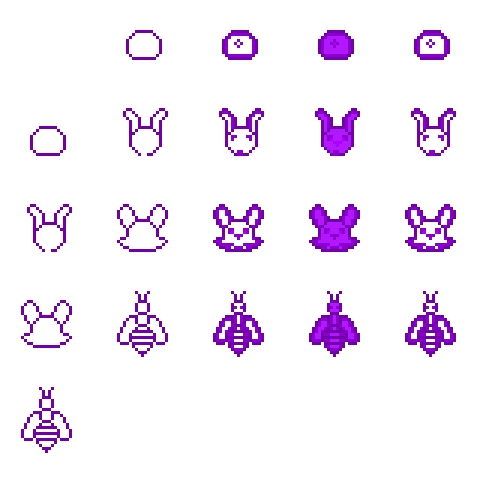
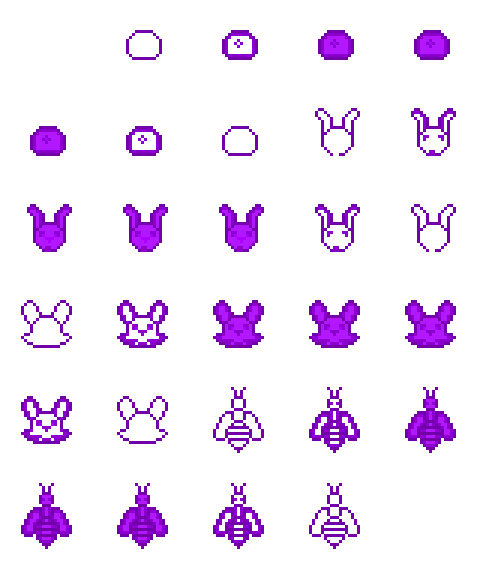
implemented curses
curses appear over the phantoms hand on the title screen.  still fixing a bug where curse will appear in menues it should not.

diff --git a/scripts/sceneScripts/titleScreen.js b/scripts/sceneScripts/titleScreen.js
@@ -27,6 +27,11 @@ class titleScreen extends Phaser.Scene {
         this.playerPreferance = 0;
         this.tempNewGameSlotID = 0;
         this.selectedSlotToBeDeleted = 0;
+        this.curse;
+        this.cursecooldown = false;
+
+        this.logoToggle =false;
+        this.logoAnimationPlayed = false;
 
         //saved variables
         this.warpToX;
@@ -50,7 +55,7 @@ class titleScreen extends Phaser.Scene {
             this.load.spritesheet("loadGame" , "assets/LoadGame.png" , {frameWidth: 231 , frameHeight: 33 });
             this.load.spritesheet("options" , "assets/options.png" , {frameWidth: 165 , frameHeight: 33 });
             this.load.spritesheet("back" , "assets/Back.png" , {frameWidth: 102 , frameHeight: 33 });
-            this.load.spritesheet("title" , "assets/Phantom's Curse.png" , {frameWidth: 1050 , frameHeight: 100 });
+            this.load.spritesheet("title" , "assets/Phantom's Curse.png" , {frameWidth: 1773 , frameHeight: 168 });
             this.load.spritesheet("titleLogo" , "assets/title screen logo.png" , {frameWidth: 1080 , frameHeight: 1140});
             this.load.spritesheet("maleSexSelectIcons" , "assets/maleSexSelectIcons.png" , {frameWidth: 75 , frameHeight: 75 });
             this.load.spritesheet("femaleSexSelectIcons" , "assets/femaleSexSelectIcons.png" , {frameWidth: 75 , frameHeight: 75 });
@@ -64,7 +69,6 @@ class titleScreen extends Phaser.Scene {
             this.load.spritesheet('sexSlotSexIcon', 'assets/saveSlotSexIcon.png',{frameWidth: 75, frameHeight: 75 });
             this.load.spritesheet('shellIcon', 'assets/shellIcon.png',{frameWidth: 96, frameHeight: 96 });
             this.load.spritesheet('bestiaryIcon', 'assets/bestiaryIcon.png',{frameWidth: 96, frameHeight: 96 });
-            this.load.spritesheet('removeSlots', 'assets/removeSlots.png',{frameWidth: 99, frameHeight: 99 });
             this.load.spritesheet('removeSlots', 'assets/removeSlots.png',{frameWidth: 99, frameHeight: 99 });
             this.load.spritesheet('no', 'assets/no.png',{frameWidth: 60, frameHeight: 33 });
             this.load.spritesheet('yes', 'assets/yes.png',{frameWidth: 78, frameHeight: 33 });
@@ -93,18 +97,18 @@ class titleScreen extends Phaser.Scene {
             this.anims.create({key: 'femaleActive',frames: this.anims.generateFrameNames('femaleSexSelectIcons', { start: 1, end: 1 }),frameRate: 1,repeat: -1});
             this.anims.create({key: 'femaleInActive',frames: this.anims.generateFrameNames('femaleSexSelectIcons', { start: 0, end: 0 }),frameRate: 1,repeat: -1});
             this.anims.create({key: 'backroundLoop',frames: this.anims.generateFrameNames('backgroundForest', { start: 0, end: 8 }),frameRate: 4,repeat: -1});
-            this.anims.create({key: 'titleLogoLoop',frames: this.anims.generateFrameNames('titleLogo', { start: 0, end: 14 }),frameRate: 4,repeat: -1});
-            this.anims.create({key: 'titleLoop',frames: this.anims.generateFrameNames('title', { start: 0, end: 9 }),frameRate: 15,repeat: -1});
-            this.anims.create({key: 'titleLoop1',frames: this.anims.generateFrameNames('title', { start: 4, end: 4 }),frameRate: 1,repeat: -1});
+            this.anims.create({key: 'titleLogoLoop1',frames: this.anims.generateFrameNames('titleLogo', { start: 0, end: 10 }),frameRate: 4,repeat: 0});
+            this.anims.create({key: 'titleLogoLoop2',frames: this.anims.generateFrameNames('titleLogo', { start: 11, end: 14 }),frameRate: 4,repeat: 0});
+            this.anims.create({key: 'titleLoop',frames: this.anims.generateFrameNames('title', { start: 0, end: 6 }),frameRate: 3,repeat: -1});
             this.backround = this.add.sprite(450, 450, "backgroundForest");
             this.backround.setScale(1.6);
             this.backround.setTint(0x4b4b4b);
-            this.titleLogo = this.add.sprite(450, 500, "titleLogo");
-            this.titleLogo.anims.play("titleLogoLoop");
+            this.titleLogo = this.add.sprite(450, 550, "titleLogo");
+           
             this.titleLogo.setScale(1/2+1/3);
             this.title =this.add.sprite(450, 50, "title");
-            this.title.anims.play("titleLoop1");
-            this.title.setScale(.8);
+            this.title.anims.play("titleLoop");
+            this.title.setScale(1/3 + 1/7);
 
             this.sceneTextBox = new textBox(this,450,620,'textBox');
             this.sceneTextBox.setTitleScreenView();
@@ -178,6 +182,9 @@ class titleScreen extends Phaser.Scene {
                 that.back.visible = true;
                 that.titleLogo.visible = false;
                 that.isInSlotSelectNew = true;
+                if(that.curse !== undefined){
+                    that.curse.visible = false;
+                }
 
                 that.showSaveSlots(true,false);
                
@@ -192,6 +199,9 @@ class titleScreen extends Phaser.Scene {
                 that.options.visible = false;
                 that.back.visible = true;
                 that.isInSlotSelectLoad = true;
+                if(that.curse !== undefined){
+                    that.curse.visible = false;
+                }
                 
                 that.showSaveSlots(true,true);
             
@@ -227,6 +237,10 @@ class titleScreen extends Phaser.Scene {
                 that.options.visible = false;
                 that.back.visible = true;
                 that.titleLogo.visible = false;
+
+                if(that.curse !== undefined){
+                    that.curse.visible = false;
+                }
         
              });
 
@@ -360,30 +374,6 @@ class titleScreen extends Phaser.Scene {
  
                  this.inventoryArray.push(item);
              }
- 
-             /*this.inventoryArray[0].itemID = 2;
-             this.inventoryArray[0].itemStackable = 0;
-             this.inventoryArray[0].itemAmount = 1;
-            
- 
-             this.inventoryArray[1].itemID = 4;
-             this.inventoryArray[1].itemStackable = 0;
-             this.inventoryArray[1].itemAmount = 1;
-             
- 
-             this.inventoryArray[2].itemID = 6;
-             this.inventoryArray[2].itemStackable = 0;
-             this.inventoryArray[2].itemAmount = 1;
-             
- 
-             this.inventoryArray[3].itemID = 8;
-             this.inventoryArray[3].itemStackable = 0;
-             this.inventoryArray[3].itemAmount = 1;
-             
- 
-             this.inventoryArray[4].itemID = 10;
-             this.inventoryArray[4].itemStackable = 0;
-             this.inventoryArray[4].itemAmount = 1;*/
              
  
             console.log("testing new data structure in ->this.inventoryArray",this.inventoryArray);
@@ -472,45 +462,7 @@ class titleScreen extends Phaser.Scene {
                 this.inventoryArray.push(item);
             }
 
-            /*this.inventoryArray[0].itemID = 2;
-            this.inventoryArray[0].itemStackable = 0;
-            this.inventoryArray[0].itemAmount = 1;
-           
-
-            this.inventoryArray[1].itemID = 4;
-            this.inventoryArray[1].itemStackable = 0;
-            this.inventoryArray[1].itemAmount = 1;
             
-
-            this.inventoryArray[2].itemID = 6;
-            this.inventoryArray[2].itemStackable = 0;
-            this.inventoryArray[2].itemAmount = 1;
-            
-
-            this.inventoryArray[3].itemID = 8;
-            this.inventoryArray[3].itemStackable = 0;
-            this.inventoryArray[3].itemAmount = 1;
-            
-
-            this.inventoryArray[4].itemID = 10;
-            this.inventoryArray[4].itemStackable = 0;
-            this.inventoryArray[4].itemAmount = 1;
-
-            this.inventoryArray[5].itemID = 12;
-            this.inventoryArray[5].itemStackable = 1;
-            this.inventoryArray[5].itemAmount = 5;
-
-            this.inventoryArray[6].itemID = 14;
-            this.inventoryArray[6].itemStackable = 1;
-            this.inventoryArray[6].itemAmount = 12;
-
-            this.inventoryArray[7].itemID = 14;
-            this.inventoryArray[7].itemStackable = 1;
-            this.inventoryArray[7].itemAmount = 60;
-
-            this.inventoryArray[8].itemID = 14;
-            this.inventoryArray[8].itemStackable = 1;
-            this.inventoryArray[8].itemAmount = 12;*/
             
 
             console.log("testing new data structure in ->this.inventoryArray",this.inventoryArray);
@@ -694,6 +646,29 @@ class titleScreen extends Phaser.Scene {
         }
 
         update(){
+
+            if(this.logoToggle === false){
+                if(this.logoAnimationPlayed === false){
+                    this.logoAnimationPlayed = true;
+                    this.curse = new curse(this, 275,175);
+                    console.log("this.curse",this.curse);
+                    this.cursecooldown = this.curse.destroyCurse();
+                    this.titleLogo.anims.play("titleLogoLoop1").once('animationcomplete' , () =>{
+                        this.logoAnimationPlayed = false;
+                        this.logoToggle = true;
+                    });
+                }
+                
+            }else if(this.logoToggle === true){
+                if(this.logoAnimationPlayed === false){
+                    this.logoAnimationPlayed = true;
+                    this.titleLogo.anims.play("titleLogoLoop2").once('animationcomplete' , () =>{
+                        this.logoAnimationPlayed = false;
+                        this.logoToggle = false;
+                    });
+                }
+
+            }
             
         }
 

diff --git a/scripts/uiScripts/curse.js b/scripts/uiScripts/curse.js
@@ -1,0 +1,46 @@
+class curse extends Phaser.Physics.Arcade.Sprite{
+    // every class needs constructor
+    constructor(scene, xPos, yPos){
+      //super() calls the constructor() from the parent class we are extending
+      super(scene, xPos, yPos, 'curses');
+      //then we add new instance into the scene. when ising this inside a class definition is refering to the instance of the class
+      //so here in the subclass of sprite its refering to the image object we just made. 
+      scene.add.existing(this);
+      this.setDepth(50);
+      this.setScrollFactor(0);
+      this.visible = true;
+      this.animationComplete = false;
+
+      this.randomCurse = Math.floor((Math.random() * 4)+1);
+      
+      
+      this.anims.create({key: '0',frames: this.anims.generateFrameNames('curses', { start: 0, end: 0 }),frameRate: 4,repeat: -1});
+      this.anims.create({key: '1',frames: this.anims.generateFrameNames('curses', { start: 1, end: 7 }),frameRate: 4,repeat: 0});
+      this.anims.create({key: '2',frames: this.anims.generateFrameNames('curses', { start: 8, end: 14 }),frameRate: 4,repeat: 0});
+      this.anims.create({key: '3',frames: this.anims.generateFrameNames('curses', { start: 15, end: 21 }),frameRate: 4,repeat: 0});
+      this.anims.create({key: '4',frames: this.anims.generateFrameNames('curses', { start: 22, end: 28 }),frameRate: 4,repeat: 0});
+      
+
+
+      //this.anims.play('2');
+
+      this.setScale(1);
+      
+    }
+
+    destroyCurse(){
+
+      this.randomCurse = Math.floor((Math.random() * 4)+1);
+       let temp = ''+ this.randomCurse;
+       console.log("temp: ", temp);
+
+        this.anims.play(temp).once('animationcomplete' , () =>{
+          this.destroy();
+          return false;
+        });
+    }
+
+      
+      
+    
+}

diff --git a/index.html b/index.html
@@ -55,6 +55,7 @@
   <script src="scripts/uiScripts/textBox.js"></script>
   <script src="scripts/uiScripts/textBoxCharacter.js"></script>
   <script src="scripts/uiScripts/textBoxProfile.js"></script>
+  <script src="scripts/uiScripts/curse.js"></script>
 
   <script src="scripts/gameObjectScripts/savePoint.js"></script>
   <script src="scripts/gameObjectScripts/sign.js"></script>
